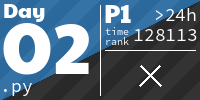
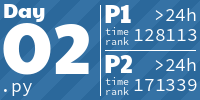
[2024][DAY 2] add solution

diff --git a/2024/day02.py b/2024/day02.py
@@ -2,23 +2,49 @@ import numpy as np
 
 filepath = "day02.txt"
 
-file_reader_gen = (row for row in open(filepath))
+file_reader_gen = (row.split() for row in open(filepath))
+
+def get_nums(file_reader_gen):
+    nums_array = []
+    for row in file_reader_gen:
+        nums_array.append(np.array([int(i) for i in row]))
+
+    return nums_array
 
 def solve_part_I():
 
     result = 0
     for row in file_reader_gen:
-        nums = np.array([int(i) for i in row.split()])
-        diffs = np.diff(nums)
-
-        if (diffs > 0).all() and (diffs <= 3).all():
+        nums = np.array([int(i) for i in row])
+        if is_safe(nums):
             result += 1
 
-        if (diffs < 0).all() and (diffs >= -3).all():
+    print("Part I:", result)
+
+def is_safe(nums):
+    diffs = np.diff(nums)
+    if (diffs > 0).all() and (diffs <= 3).all():
+        return True
+
+    if (diffs < 0).all() and (diffs >= -3).all():
+        return True
+
+    return False
+
+def solve_part_ii():
+    nums_list = get_nums(file_reader_gen)
+    result = 0
+    for nums in nums_list:
+        if is_safe(nums):
             result += 1
+            continue
 
-    return result
+        for i in range(len(nums)):
+            nums_copy = np.delete(nums, i)
+            if is_safe(nums_copy):
+                result += 1
+                break
+    print("Part II", result)
 
-
-result_1 = solve_part_I()
-print(result_1)
+solve_part_I()
+solve_part_ii()

diff --git a/README.md b/README.md
@@ -1,6 +1,6 @@
 <!-- AOC TILES BEGIN -->
 <h1 align="center">
-  2024 - 35 ⭐ - Python
+  2024 - 36 ⭐ - Python
 </h1>
 <a href="2024/day01.py">
   <img src=".aoc_tiles/tiles/2024/01.png" width="161px">
